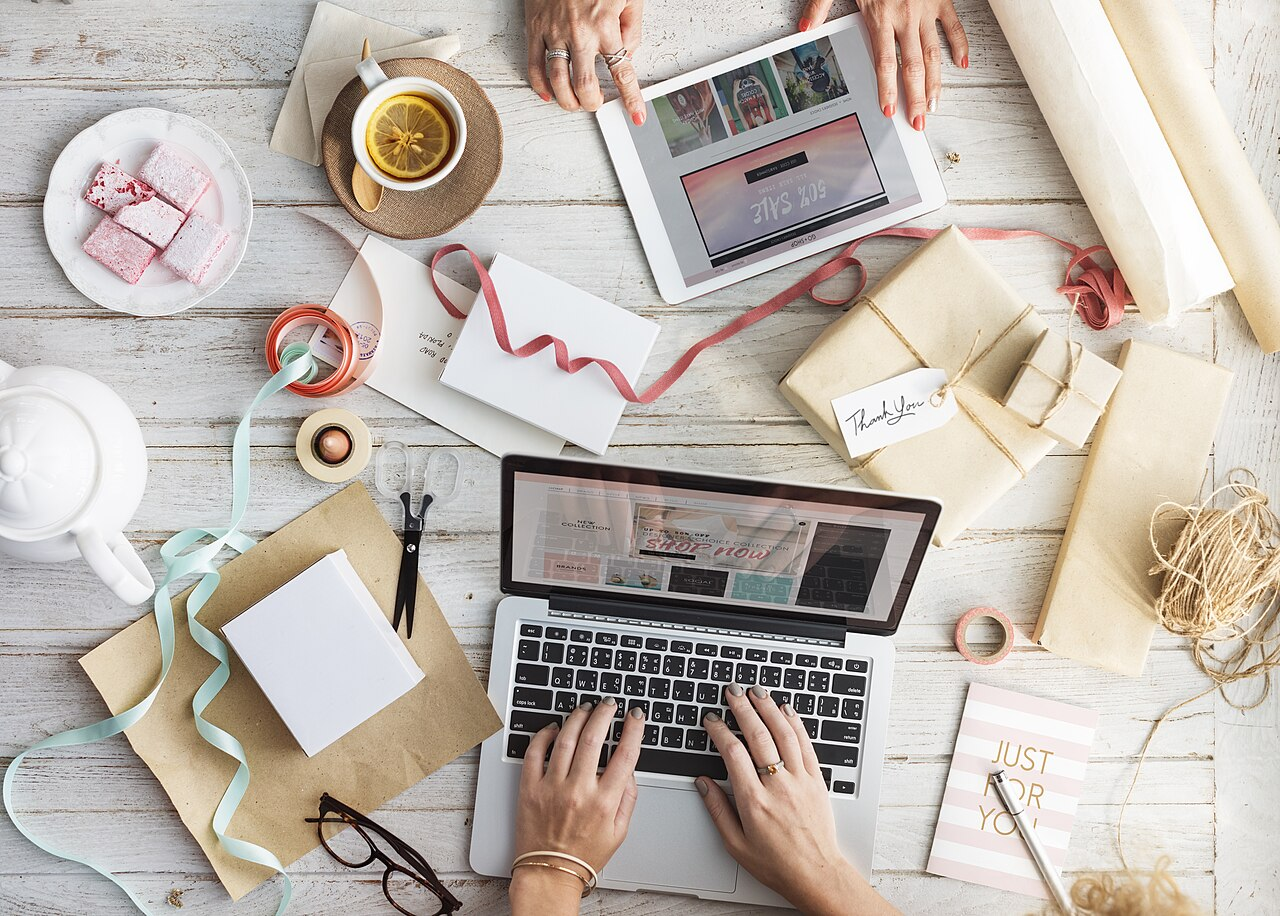
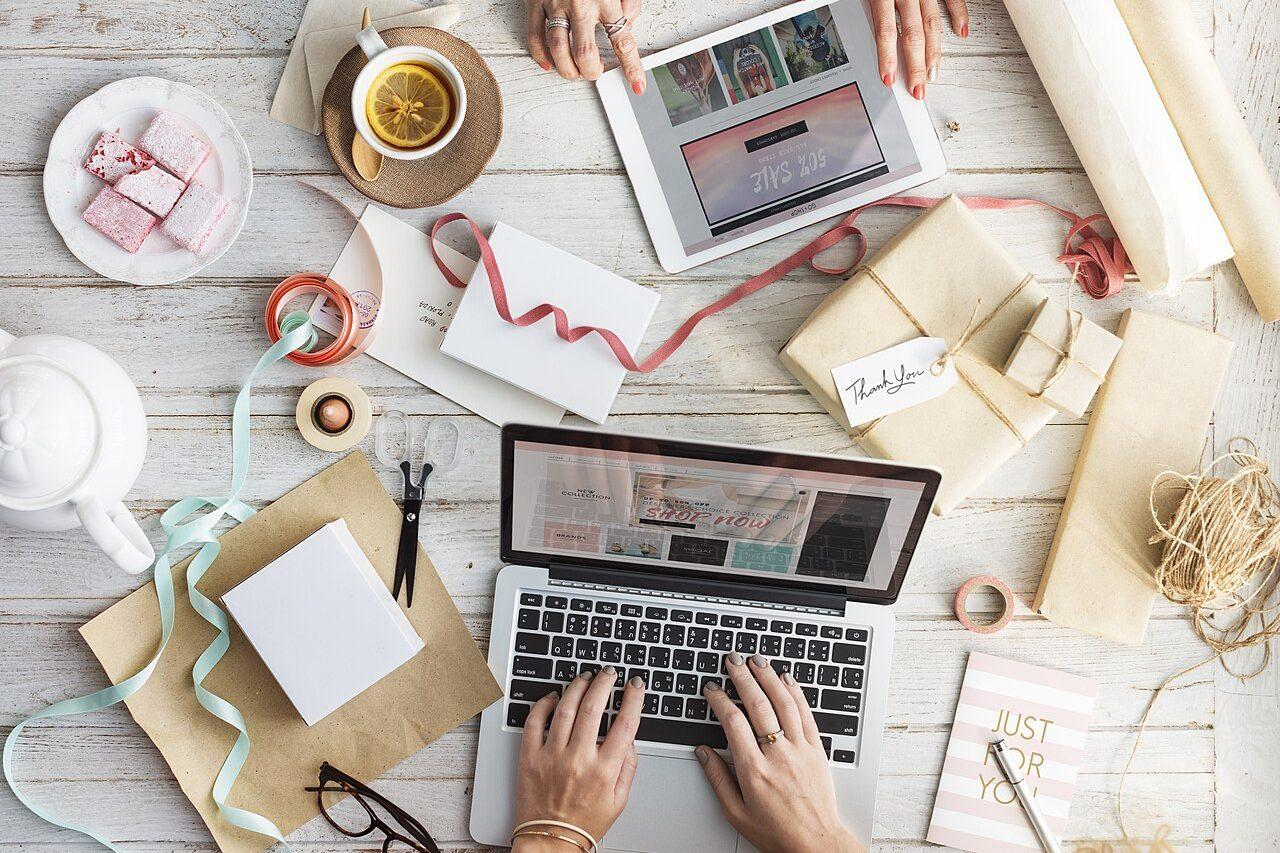
Add blog thumbnails, image alt text, and standardize post cover images
- Show a thumbnail alongside each post on the blog listing page
- Add descriptive img-alt front matter used for image alt text and
  og:image:alt, instead of falling back to the post title everywhere
- Crop/resize all post cover images to a consistent 1280x853 and
  recompress for a more even file size across the set
- Fix .post-item title styling to also match the h3 markup blog.md
  actually uses (previously only targeted h2, which was unused)

diff --git a/assets/css/main.css b/assets/css/main.css
@@ -2311,6 +2311,10 @@ a.newer-posts:hover {
 }
 
 .post-item {
+  display: -webkit-box;
+  display: -ms-flexbox;
+  display: flex;
+  gap: 1.2rem;
   color: #14171b;
   border-bottom: 1px solid #dfe2e5;
   -webkit-border-radius: 12px;
@@ -2334,12 +2338,40 @@ a.newer-posts:hover {
           box-shadow: 0 14px 26px rgba(20, 23, 27, 0.08);
 }
 
-.post-item h2 {
+.post-thumb {
+  -webkit-box-flex: 0;
+      -ms-flex: 0 0 auto;
+          flex: 0 0 auto;
+  width: 140px;
+  height: 96px;
+  -webkit-border-radius: 8px;
+          border-radius: 8px;
+  overflow: hidden;
+  background-color: #f4f6f7;
+}
+.post-thumb img {
+  width: 100%;
+  height: 100%;
+  -o-object-fit: cover;
+     object-fit: cover;
+  display: block;
+}
+
+.post-body {
+  -webkit-box-flex: 1;
+      -ms-flex: 1 1 auto;
+          flex: 1 1 auto;
+  min-width: 0;
+}
+
+.post-item h2,
+.post-item h3 {
   margin: 0 0 0.4rem;
   font-size: 1.6rem;
 }
 
-.post-item h2 a {
+.post-item h2 a,
+.post-item h3 a {
   color: #14171b;
   text-decoration: none;
   border-bottom: 2px solid transparent;
@@ -2348,7 +2380,8 @@ a.newer-posts:hover {
   transition: border-color 0.2s, color 0.2s;
 }
 
-.post-item h2 a:hover {
+.post-item h2 a:hover,
+.post-item h3 a:hover {
   color: #0e7c86;
   border-color: #0e7c86;
 }
@@ -2798,6 +2831,16 @@ a.newer-posts:hover {
 @media only screen and (max-width: 480px) {
   .content-box {
     padding: 10px;
+  }
+  .post-item {
+    -webkit-box-orient: vertical;
+    -webkit-box-direction: normal;
+        -ms-flex-direction: column;
+            flex-direction: column;
+  }
+  .post-thumb {
+    width: 100%;
+    height: 160px;
   }
   .post {
     width: 98%;

diff --git a/assets/css/scss/parts/_home-page.scss b/assets/css/scss/parts/_home-page.scss
@@ -1082,6 +1082,8 @@ a.newer-posts:hover {
 }
 
 .post-item {
+  display: flex;
+  gap: 1.2rem;
   color: $text;
   border-bottom: 1px solid $gray;
   border-radius: 12px;
@@ -1098,12 +1100,34 @@ a.newer-posts:hover {
   box-shadow: 0 14px 26px rgba(20, 23, 27, 0.08);
 }
 
-.post-item h2 {
+.post-thumb {
+  flex: 0 0 auto;
+  width: 140px;
+  height: 96px;
+  border-radius: 8px;
+  overflow: hidden;
+  background-color: $lightgray;
+  img {
+    width: 100%;
+    height: 100%;
+    object-fit: cover;
+    display: block;
+  }
+}
+
+.post-body {
+  flex: 1 1 auto;
+  min-width: 0;
+}
+
+.post-item h2,
+.post-item h3 {
   margin: 0 0 0.4rem;
   font-size: 1.6rem;
 }
 
-.post-item h2 a {
+.post-item h2 a,
+.post-item h3 a {
   color: $text;
   text-decoration: none;
   border-bottom: 2px solid transparent;
@@ -1112,7 +1136,8 @@ a.newer-posts:hover {
     color 0.2s;
 }
 
-.post-item h2 a:hover {
+.post-item h2 a:hover,
+.post-item h3 a:hover {
   color: $accent;
   border-color: $accent;
 }

diff --git a/_layouts/post.html b/_layouts/post.html
@@ -6,7 +6,7 @@ layout: main
     {% if page.img %}
     <div class="page-cover-image">
       <figure>
-        <img class="page-image" src="{{ "/assets/img/" | relative_url }}{{ page.img }}" alt="{{ page.title }}" loading="lazy" decoding="async">
+        <img class="page-image" src="{{ "/assets/img/" | relative_url }}{{ page.img }}" alt="{{ page['img-alt'] | default: page.title }}" loading="lazy" decoding="async">
         {% if page.fig-caption %}
           <figcaption>{{page.fig-caption}}</figcaption>
         {% endif %}

diff --git a/_includes/head.html b/_includes/head.html
@@ -50,7 +50,7 @@
   />
   <meta
     property="og:image:alt"
-    content="{{ page.title | default: site.title }}"
+    content="{{ page['img-alt'] | default: page.title | default: site.title }}"
   />
   {% else %}
   <meta

diff --git a/assets/css/scss/_media.scss b/assets/css/scss/_media.scss
@@ -122,6 +122,13 @@
   .content-box {
     padding: 10px;
   }
+  .post-item {
+    flex-direction: column;
+  }
+  .post-thumb {
+    width: 100%;
+    height: 160px;
+  }
   .post {
     width: 98%;
     max-width: 100%;

diff --git a/blog.md b/blog.md
@@ -32,10 +32,17 @@ description: "An evolving Digital notebook of my interests. Read my thoughts on 
   <div class="posts-list">
     {% for post in category_posts %}
     <article class="post-item">
-      <h3><a href="{{ post.url | relative_url }}">{{ post.title }}</a></h3>
-      <p class="post-meta">{{ post.date | date: "%B %-d, %Y" }}{% if post.tags %} • {{ post.tags | join: ", " }}{% endif %}</p>
-      <p>{{ post.excerpt | strip_html | truncate: 180 }}</p>
-      <p><a class="read-more" href="{{ post.url | relative_url }}">Read more →</a></p>
+      {% if post.img %}
+      <a class="post-thumb" href="{{ post.url | relative_url }}">
+        <img src="{{ '/assets/img/' | relative_url }}{{ post.img }}" alt="{{ post['img-alt'] | default: post.title }}" loading="lazy" decoding="async">
+      </a>
+      {% endif %}
+      <div class="post-body">
+        <h3><a href="{{ post.url | relative_url }}">{{ post.title }}</a></h3>
+        <p class="post-meta">{{ post.date | date: "%B %-d, %Y" }}{% if post.tags %} • {{ post.tags | join: ", " }}{% endif %}</p>
+        <p>{{ post.excerpt | strip_html | truncate: 180 }}</p>
+        <p><a class="read-more" href="{{ post.url | relative_url }}">Read more →</a></p>
+      </div>
     </article>
     {% endfor %}
   </div>
@@ -51,10 +58,17 @@ description: "An evolving Digital notebook of my interests. Read my thoughts on 
   <div class="posts-list">
     {% for post in site.posts %}
     <article class="post-item">
-      <h3><a href="{{ post.url | relative_url }}">{{ post.title }}</a></h3>
-      <p class="post-meta">{{ post.date | date: "%B %-d, %Y" }}{% if post.tags %} • {{ post.tags | join: ", " }}{% endif %}</p>
-      <p>{{ post.excerpt | strip_html | truncate: 180 }}</p>
-      <p><a class="read-more" href="{{ post.url | relative_url }}">Read more →</a></p>
+      {% if post.img %}
+      <a class="post-thumb" href="{{ post.url | relative_url }}">
+        <img src="{{ '/assets/img/' | relative_url }}{{ post.img }}" alt="{{ post['img-alt'] | default: post.title }}" loading="lazy" decoding="async">
+      </a>
+      {% endif %}
+      <div class="post-body">
+        <h3><a href="{{ post.url | relative_url }}">{{ post.title }}</a></h3>
+        <p class="post-meta">{{ post.date | date: "%B %-d, %Y" }}{% if post.tags %} • {{ post.tags | join: ", " }}{% endif %}</p>
+        <p>{{ post.excerpt | strip_html | truncate: 180 }}</p>
+        <p><a class="read-more" href="{{ post.url | relative_url }}">Read more →</a></p>
+      </div>
     </article>
     {% endfor %}
   </div>

diff --git a/_posts/template.md b/_posts/template.md
@@ -4,6 +4,7 @@ title: "Post Title Goes Here"
 date: 2026-01-01 12:00:00 +0000
 description: "A plain, one to two sentence summary of what this post covers and why it matters. This is what shows up in previews and search results."
 img: # optional - filename only, e.g. my-image.jpg (lives in /assets/img/)
+img-alt: # required if img is set - plainly describe what's in the image, for accessibility and SEO
 fig-caption: # optional - only used if img is set
 categories: [Software Development] # pick one or more: Legal Tech, Software Development, Cybersecurity, Tech Projects, Portfolio Posts
 tags: [] # short, lowercase, hyphenated: e.g. shopify, web-development, learning-notes

diff --git a/_posts/2026-09-13-turning-my-2014-macbook-pro-into-a-linux-machine.md b/_posts/2026-09-13-turning-my-2014-macbook-pro-into-a-linux-machine.md
@@ -4,7 +4,8 @@ title: "Turning My Early 2014 MacBook Pro Into a Linux Machine in 2026 Using the
 date: 2026-09-13
 categories: [Tech Projects, Software Development]
 tags: [linux, linux-mint, macbook, open-source, tech-projects, hardware, learning-notes]
-img: linux-mint-desktop.png
+img: linux-mint-desktop.jpg
+img-alt: "The Linux Mint desktop logo on a dark background"
 description: "How I gave my early 2014 MacBook Pro a second life in 2026 by installing the latest version of Linux Mint - what worked, what broke, how I fixed it, and why the lightweight setup still handles coding and Claude Code just fine."
 published: true
 ---

diff --git a/_posts/2026-08-29-shopify-ecommerce-and-more.md b/_posts/2026-08-29-shopify-ecommerce-and-more.md
@@ -5,6 +5,7 @@ date: 2026-08-29
 description: "First impressions from starting an e-commerce role - getting hands-on with Shopify, learning how online stores actually run, and where this fits into my wider web development goals."
 categories: [Software Development, Portfolio Posts]
 img: shopping-for-gifts.jpg
+img-alt: "A flat lay of wrapped gifts, ribbon and a laptop on a desk"
 tags: [shopify, e-commerce, web-development, learning-notes]
 published: true
 ---

diff --git a/_posts/2026-06-05-planning-my-home-lab-on-a-budget-with-no-experience.md b/_posts/2026-06-05-planning-my-home-lab-on-a-budget-with-no-experience.md
@@ -5,6 +5,7 @@ date: 2026-06-05
 description: "A beginner-friendly plan for building a budget home lab with no prior experience, using affordable hardware and practical learning goals."
 categories: [Tech Projects, Portfolio Posts]
 img: workflow.jpg
+img-alt: "A closed silver laptop reflected on a glossy desk surface"
 tags: [home-lab, budget, beginner, hardware, networking, learning, lab-setup]
 published: true
 ---

diff --git a/_posts/2026-06-05-building-my-personal-portfolio-with-jekyll.md b/_posts/2026-06-05-building-my-personal-portfolio-with-jekyll.md
@@ -4,6 +4,7 @@ title: "Building My Personal Portfolio with Jekyll"
 date: 2026-06-05
 description: "A comprehensive overview of building my personal portfolio website from start to present, documenting the project evolution, design decisions, and current state."
 img: lines-of-code.jpg
+img-alt: "Close-up of colourful lines of code on a laptop screen"
 categories: [Software Development, Portfolio Posts]
 tags:
   [

diff --git a/_posts/2026-08-22-completing-my-ncfe-course.md b/_posts/2026-08-22-completing-my-ncfe-course.md
@@ -5,6 +5,7 @@ date: 2026-08-22
 description: "A personal reflection on completing my NCFE Level 3 Certificate in Cyber Security Practice - what I covered, what I learned, and what comes next."
 categories: [Cybersecurity, Portfolio Posts]
 img: code-on-monitor.jpg
+img-alt: "Colourful code displayed across two computer monitors"
 tags: [cybersecurity, ncfe, career-change, learning-notes]
 published: true
 ---
